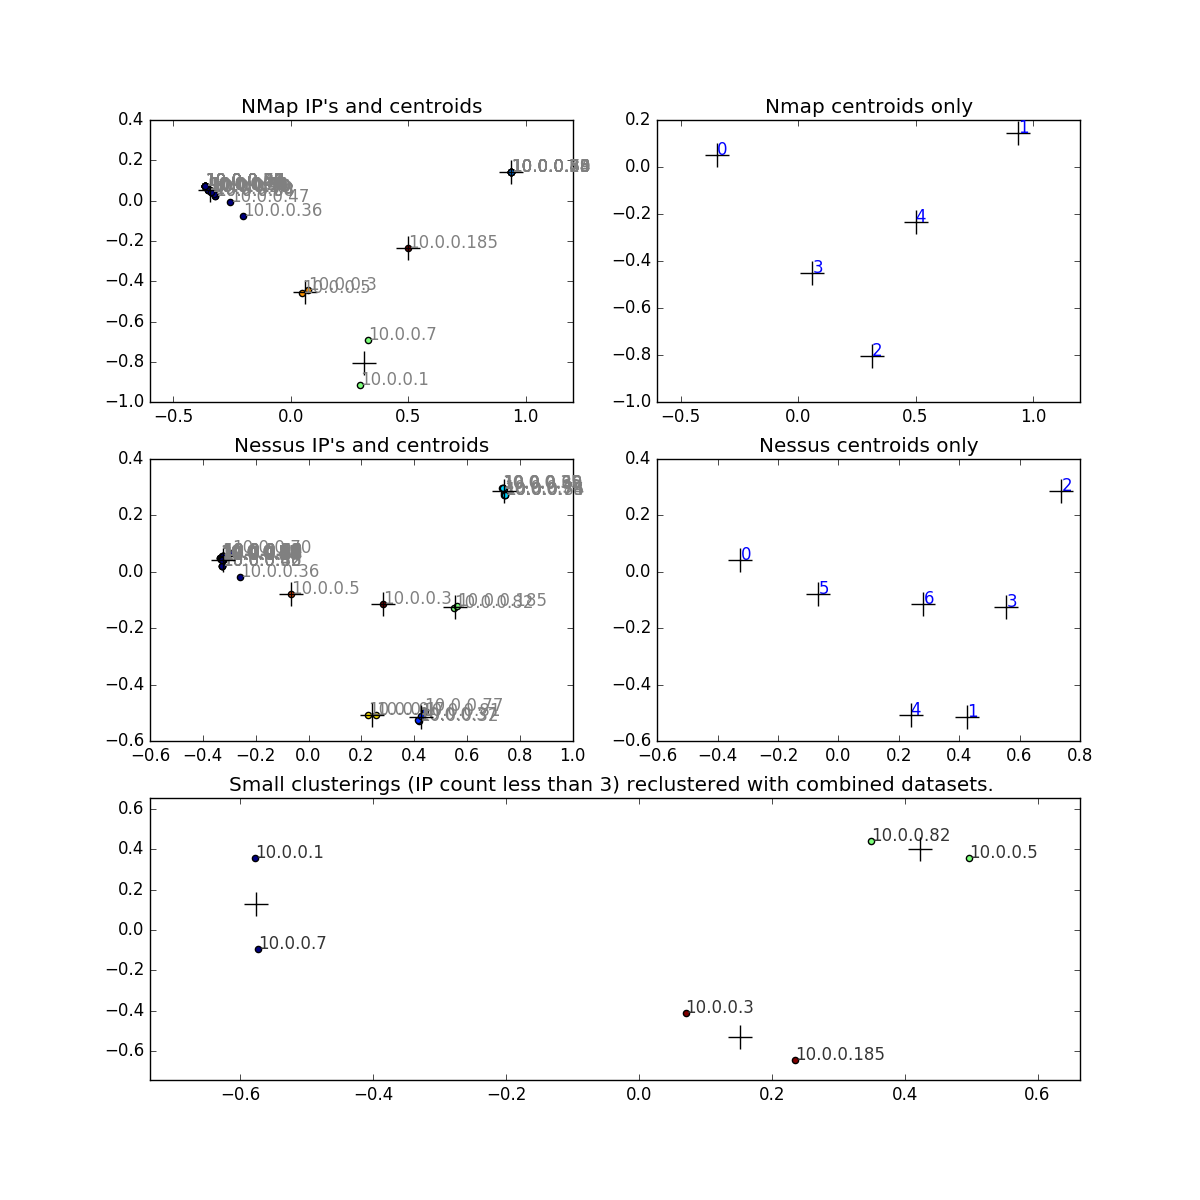
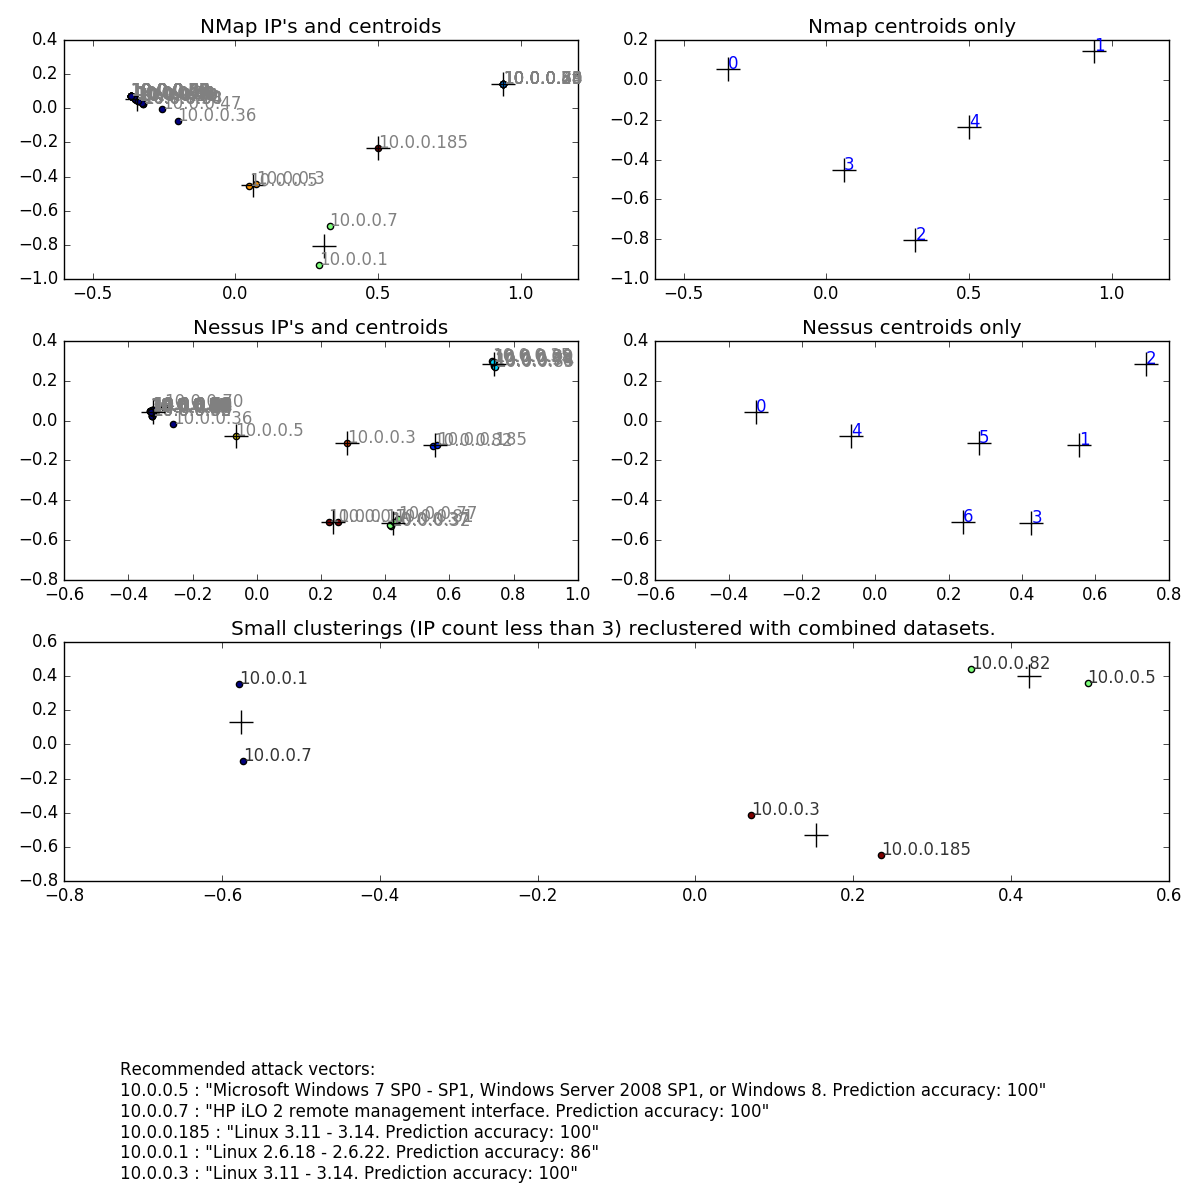
added new parser for single IPs
now returns ip OS information for single IPs

diff --git a/Clusterer/clusterer_parts/single_ip_parsing_nmap.py b/Clusterer/clusterer_parts/single_ip_parsing_nmap.py
@@ -1,0 +1,141 @@
+import xml.etree.ElementTree as ET
+from cStringIO import StringIO
+from json import dumps
+
+import logging
+
+
+class singleNMAPXMLParser():
+    def __init__(self):
+        pass
+    def can_parse_input(self, input_string):
+        return input_string.startswith("<?xml") and "nmap.xsl" in input_string
+    def parse_input(self, input_string, ips):
+        """
+        Parse the NMAP XML input and dump out the list of strings representing out vectors
+        :param input_string:
+        :return:
+        """
+        info = {}
+
+        tree = ET.parse(StringIO(input_string))
+        root = tree.getroot()
+
+        #logging.debug("Parsing NMAP for single ips info")
+        for e1 in root:
+            if e1.tag == "host":
+                host = e1
+
+                ports = None
+                address = None
+                os = None
+                osmatch = None
+                for e2 in host:
+                    if e2.tag == "ports":
+                        ports = e2
+                    if e2.tag == "address" and e2.attrib['addrtype'] != "mac":
+                        address = e2
+                    if e2.tag == "os":
+                        os = e2
+                        # for e3 in e2:
+                        #     if e3.tag == "osmatch":
+                        #         osmatch = e3
+
+                # if ports is None:
+                #     continue
+
+                ip_address = address.attrib['addr']
+                if ip_address not in ips:
+                    continue
+                else:
+                    info[ip_address] = []
+                #if ip is in the given ip list run rest of code
+                for os in os:
+                    if os.tag != "osmatch":
+                        continue
+
+                    name = os.attrib["name"]
+                    acc = os.attrib["accuracy"]
+                    s = dumps(name + ". Prediction accuracy: {0}".format(acc))
+                    info[ip_address].append(s)
+
+                # for port in ports:
+                #
+                #     if port.tag != "port":
+                #         continue
+                #
+                #     port_protocol = port.attrib["protocol"]
+                #     port_number = str(port.attrib['portid'])
+                #     port_state = port.find("state").attrib['state']
+                #
+                #     # lets only pay attention to open ports
+                #     if port_state in ["open"]:
+                #         s = dumps([port_protocol, port_number, port_state])
+                #
+                #         info[ip_address].append(s)
+                #
+                #         service = port.find("service")
+                #
+                #         if "name" in service.attrib:
+                #             s = dumps([port_protocol, port_number, port_state, service.attrib["name"]])
+                #             info[ip_address].append(s)
+                #
+                #             #s = dumps([port_protocol, port_state, service.attrib["name"]])
+                #             #ip_addresses[ip_address].append(s)
+                #
+                #             s_list = [port_protocol, port_number, port_state, service.attrib["name"]]
+                #             #s_no_port_list = [port_protocol, port_state, service.attrib["name"]]
+                #
+                #             for sid in ["product", "version", "extrainfo", "servicefp"]:
+                #                 if sid in service.attrib:
+                #                     s_list.append(service.attrib[sid])
+                #                     s = dumps(s_list)
+                #                     info[ip_address].append(s)
+                #
+                #                     #s_no_port_list.append(service.attrib[sid])
+                #                     #s = dumps(s_no_port_list)
+                #                     #ip_addresses[ip_address].append(s)
+                #
+                #             for script_element in port:
+                #                 if script_element.tag != "script":
+                #                     continue
+                #                     # todo parse script tag from xml
+                #                 script_id = script_element.attrib["id"]
+                #
+                #                 for table in script_element:
+                #                     if table.tag == "table":
+                #                         for elem in table:
+                #                             key = ""
+                #                             if "key" in elem.attrib:
+                #                                 key = elem.attrib["key"]
+                #
+                #                             if elem.text is not None:
+                #                                 s = dumps([port_protocol, port_number, port_state, service.attrib["name"],
+                #                                            script_id, key, elem.text])
+                #                             else:
+                #                                 s = dumps(
+                #                                     [port_protocol, port_number, port_state, service.attrib["name"],
+                #                                      script_id, key])
+                #                             info[ip_address].append(s)
+                #
+                #                     if table.tag == "elem":
+                #                         elem = table
+                #                         key = ""
+                #                         if "key" in elem.attrib:
+                #                             key = elem.attrib["key"]
+                #
+                #                         if elem.text is not None:
+                #                             s = dumps([port_protocol, port_number, port_state, service.attrib["name"],
+                #                                        script_id, key, elem.text])
+                #                         else:
+                #                             s = dumps(
+                #                                 [port_protocol, port_number, port_state, service.attrib["name"],
+                #                                  script_id, key])
+                #                         info[ip_address].append(s)
+
+        return info
+
+
+single_ip_parsers = [
+    singleNMAPXMLParser()
+]

diff --git a/Clusterer/cluster.py b/Clusterer/cluster.py
@@ -2,6 +2,7 @@ import logging
 
 from sklearn.preprocessing import normalize
 
+from clusterer_parts.optimal_k_k_means import optimalK
 from clusterer_parts.analysis import get_common_features_from_cluster, get_common_feature_stats
 from clusterer_parts.clustering import cluster_with_dbscan, cluster_with_kmeans, precompute_distances, \
     cluster_with_agglomerative, cluster_interactive, get_centroids, cluster_single_kmeans, get_k
@@ -43,6 +44,8 @@ def cluster(
      The multiple clustering strategies and parameters are used in an attempt to get the best clusters
      
      finds the least amount of clusters with atleast one shared feature
+     
+     only uses gap statistic for small IP clusters
     """
 
     global centroidskmeans, centroidagglo, centroiddbs, no_clusters, Nno_clusters, Ncentroidskmeans
@@ -54,13 +57,14 @@ def cluster(
         if cluster_method == "kmeans":
             #centroidskmeans = get_centroids(reduced_vectors, n_clusters=n_clusters)
             #logging.debug("centroids for kmeans: {0}".format(centroidskmeans))
-            return cluster_with_kmeans(reduced_vectors, n_clusters=n_clusters)
+            k, gapdf = optimalK(vectors, nrefs=3, maxClusters=reduced_vectors.shape[0])
+            return cluster_with_kmeans(reduced_vectors, n_clusters=k)
 
         elif cluster_method == "dbscan":
-            return cluster_with_dbscan(normalized_vectors, epsilon=epsilon, min_samples=min_samples, metric=metric)
+            return cluster_with_dbscan(reduced_vectors, epsilon=epsilon, min_samples=min_samples, metric=metric)
 
         elif cluster_method == "agglomerative":
-            return cluster_with_agglomerative(normalized_vectors, n_clusters=n_clusters, metric=metric)
+            return cluster_with_agglomerative(reduced_vectors, n_clusters=n_clusters, metric=metric)
 
         else:
             # Unknown clustering method
@@ -71,14 +75,14 @@ def cluster(
         To display a information about a vector to a user, you can use the following:
         display_vector_index_details(vector_index, vectors, vector_names, vectorizer)
         """
-        # todo Try with normalized vectors
+
         return cluster_interactive(reduced_vectors, vectorizer, vectors, vector_names)
     elif strategy == "automatic":
-        # todo fix
         results = []
         smallest_cluster_count = vectors.shape[0]
         # centroids works for only kmeans atm
         for cluster_method in [
+            #todo add agglo and dbscan back in after they can return centroids.
             "kmeans"  # ,
             # "agglomerative",
             # "dbscan",
@@ -533,6 +537,7 @@ if __name__ == "__main__":
                 logging.debug("nclusters: " + str(n_clusters))
 
                 centroidskmeans = get_centroids(reduced_vectors, n_clusters)
+                k = get_k()
                 logging.debug("attempting to plot the following centroids:\n " + str(centroidskmeans) + "\n\n")
 
                 # Nessus
@@ -546,6 +551,7 @@ if __name__ == "__main__":
 
                 Ncentroidskmeans = get_centroids(Nreduced_vectors, Nn_clusters)
                 logging.debug("attempting to plot the following centroids:\n " + str(Ncentroidskmeans) + "\n\n")
+                Nk = get_k()
 
                 # covariance for Nmap
                 x = centroidskmeans[:, 0]
@@ -636,6 +642,6 @@ if __name__ == "__main__":
                     "distance matrix between centroids of small combined clusters: {0} :\n{1}".format(args.metric, SmatrixTable))
                 clusterz = cluster_single_kmeans(final, 2)
 
-                twin(reduced_vectors, labels, vector_names, centroidskmeans, n_clusters, cluster_details, Nreduced_vectors, Nlabels, Nvector_names, Ncentroidskmeans, Nn_clusters, Ncluster_details, small_ips, final, clusterz)
+                twin(reduced_vectors, labels, vector_names, centroidskmeans, n_clusters, cluster_details, Nreduced_vectors, Nlabels, Nvector_names, Ncentroidskmeans, Nn_clusters, Ncluster_details, small_ips, final, clusterz, twinpath)
 
     else: print "not yet implemented #todo"

diff --git a/Clusterer/clusterer_parts/display.py b/Clusterer/clusterer_parts/display.py
@@ -1,13 +1,13 @@
 import logging
 
 from matplotlib import gridspec
+from tabulate import tabulate
 
+from vectorize import parse_single_ips
 from analysis import reduce_shared_features, get_common_features_from_cluster
 import matplotlib.pyplot as plt
 import numpy as np
 from scipy import spatial
-from tabulate import tabulate
-
 first_pass = 0
 clusterX = dict()
 NclusterX = dict()
@@ -141,8 +141,6 @@ def find_nearest_vector(array, value):
         return nearest_vector
 
 def remove_large_clusters():
-    #todo
-    #remove large clusters and combine then data to be clustered again
 
     #originals needed for graph plotting therefore cant be modified here
     nessusArray = clusterX
@@ -182,7 +180,7 @@ def remove_large_clusters():
     combined_unique = np.unique(combined)
     return combined_unique
 
-def twin(reduced_vectors, labels, vector_names, centroids, n_clusters, cluster_details, Nreduced_vectors, Nlabels, Nvector_names, Ncentroids, Nn_clusters, Ncluster_details, small_ips, final, clusterz):
+def twin(reduced_vectors, labels, vector_names, centroids, n_clusters, cluster_details, Nreduced_vectors, Nlabels, Nvector_names, Ncentroids, Nn_clusters, Ncluster_details, small_ips, final, clusterz, twinpath):
     #variables beginning with N are the nessus options
     #therefore variable order is nmap then nessus
 
@@ -319,7 +317,18 @@ def twin(reduced_vectors, labels, vector_names, centroids, n_clusters, cluster_d
     for index in range(len(clusterz.cluster_centers_[:,0])):
         plt.scatter((clusterz.cluster_centers_[index, 0]), (clusterz.cluster_centers_[index, 1]), marker='+', s=300, linewidths=1, \
                     c="black", label=index, zorder=4)
-    plt.figtext(.1, 0.2, "IP information placeholder", rotation='horizontal')
+
+    #add single IP information
+    info = parse_single_ips(twinpath ,small_ips)
+    #logging.debug("retreiving single IPs info: {0}".format(info))
+
+    #parse ip information dictionary for display
+    printinfo ="Recommended attack vectors: \n"
+    for k, v in info.iteritems():
+        value = "".join(v)
+        printinfo += "{0} : {1} \n".format(k,value)
+
+    plt.figtext(0.1, 0,printinfo, rotation='horizontal')
     plt.title("Small clusterings (IP count less than 3) reclustered with combined datasets. ")
 
     plt.tight_layout() #tighten everything up a bit

diff --git a/Clusterer/clusterer_parts/clustering.py b/Clusterer/clusterer_parts/clustering.py
@@ -56,20 +56,20 @@ def cluster_single_kmeans(vectors, n_clusters):
 
 
 def cluster_with_kmeans(vectors, n_clusters):
-    if n_clusters == 2:
+    # if n_clusters == 2:
         # Meaning that user didn't set the cluster number, thus we have to find the optimal number of clusters
         # We can choose any of the following 2 methods:
         #n_clusters = elbow_method(vectors, 20);
         #n_clusters = gap_statistic(vectors, 20)  # 20 is the max amount of allowed clusters
-        logging.info("Calculating gap statistic value, this can take a while...\n")
-        global k
-        k, gapdf = optimalK(vectors, nrefs=10, maxClusters=vectors.shape[0])
-        logging.info("gap statistics recommends number of clusters: {0}\n".format(k))
-        if (k > n_clusters):
-            logging.debug("No K value specified, using Gap Statistic\n")
-            n_clusters = k
-        else:
-            n_clusters = 2
+        # logging.info("Calculating gap statistic value, this can take a while...\n")
+        # global k
+        # k, gapdf = optimalK(vectors, nrefs=10, maxClusters=vectors.shape[0])
+        # logging.info("gap statistics recommends number of clusters: {0}\n".format(k))
+        # if (k > n_clusters):
+        #     logging.debug("No K value specified, using Gap Statistic\n")
+        #     n_clusters = k
+        # else:
+        #     n_clusters = 2
 
     kmeans = KMeans(n_clusters=n_clusters, n_jobs=-1)
     return kmeans.fit_predict(vectors)

diff --git a/Clusterer/clusterer_parts/vectorize.py b/Clusterer/clusterer_parts/vectorize.py
@@ -1,5 +1,8 @@
+import logging
+
 from parsing import parsers
 from parse_nessus import Nparsers
+from single_ip_parsing_nmap import single_ip_parsers
 
 import numpy as np
 
@@ -63,3 +66,11 @@ def vectorize(files_to_vectorize, n):
     vector_names, vectors = vectorizer.output_vectors()
 
     return vector_names, vectors, vectorizer
+
+def parse_single_ips(files_to_vectorize, ips):
+    for file_path in files_to_vectorize:
+        with open(file_path, "r") as f:
+            for parser in single_ip_parsers:
+                #logging.debug("vectorisor selecting single ips")
+                results = parser.parse_input(f.read(), ips)
+                return results

diff --git a/Clusterer/clusterer_parts/parse_nessus.py b/Clusterer/clusterer_parts/parse_nessus.py
@@ -78,8 +78,7 @@ class NessusXMLParser:
                                     # ip_addresses[ip].append(s)
 
                             for param in host_properties_dict:
-                                # TODO FIX!!! decide host properties to use for the features list of each IP.
-                                # param = tag name
+                                # takes all host properties to be appended to vulnerability features
                                 vulnerabilities[vulner_id][param] = host_properties_dict[param]
 
                                 if (host_properties_dict[param] == "Advanced Scan") or (
